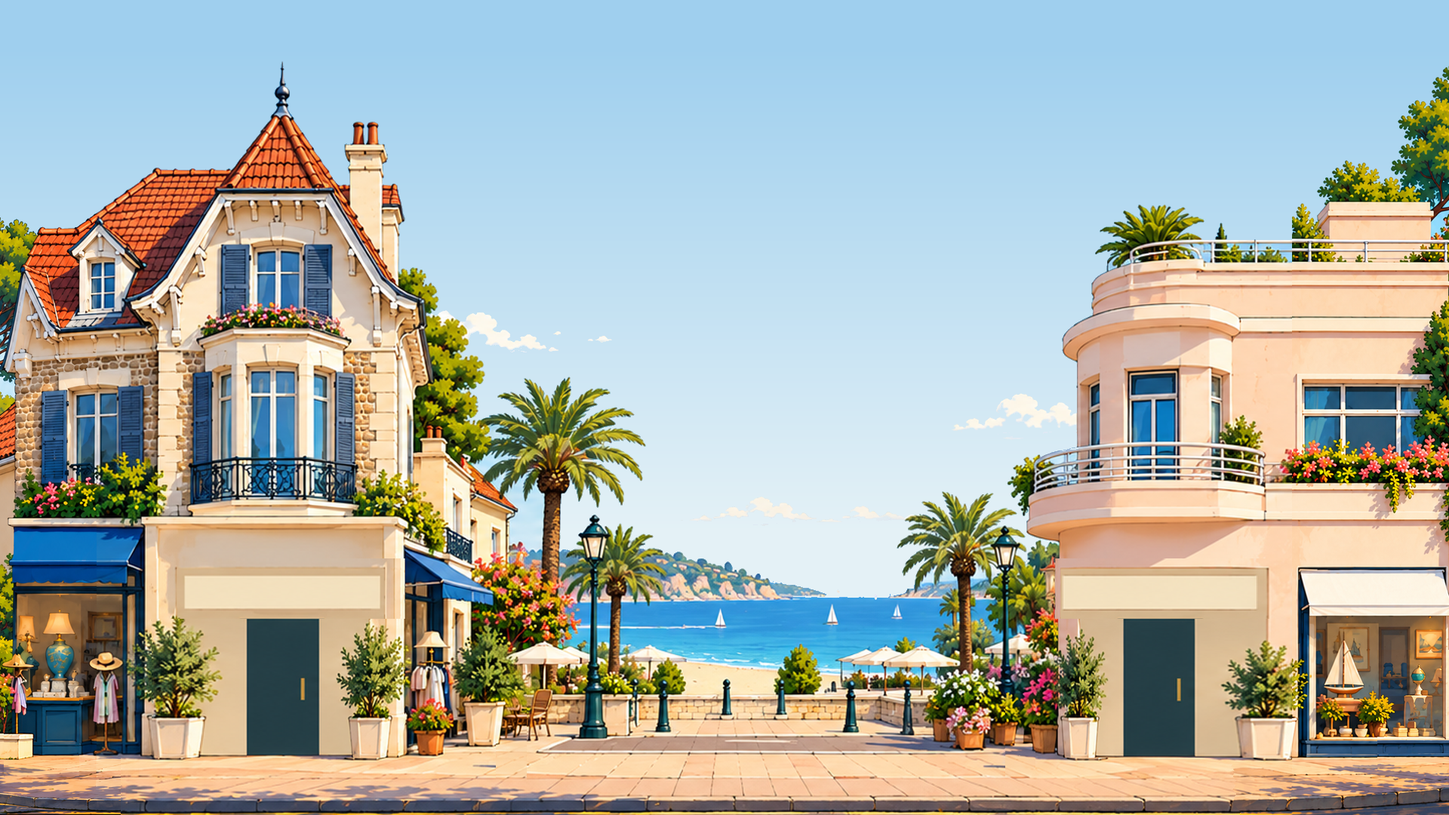
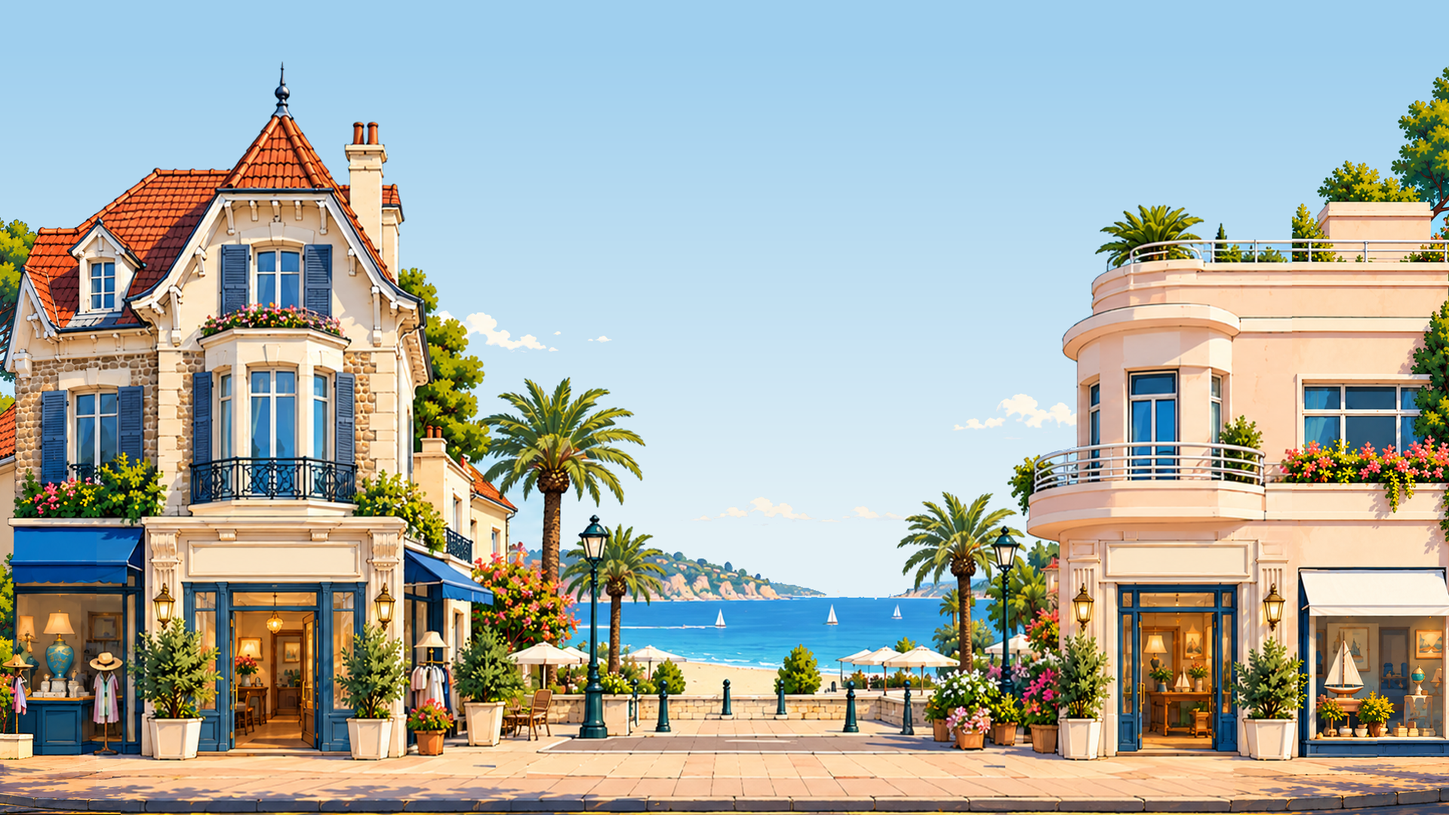
Améliore l’écran de chargement et les façades de Retraités B

Changed region(s): [[0.0938, 0.6417, 0.2812, 0.9472], [0.7188, 0.6417, 0.9062, 0.9472]]

diff --git a/src/presentation/menus/game-menu.css b/src/presentation/menus/game-menu.css
@@ -61,28 +61,47 @@
 #start-menu[data-screen='candidates'] .menu-footer { position: absolute; right: 3%; bottom: 3%; margin: 0; }
 #start-menu #prepare-game { font-size: clamp(20px, 4cqw, 66px); padding: .9cqw 2.4cqw; border-radius: 2.4cqw; outline-color: #d6ffad; background: linear-gradient(#8aff1d, #31d00a 40%, #08971a 60%, #38e30a); box-shadow: inset 0 3px 0 #fff, inset 0 -6px 0 #077b27, 0 5px 0 #06160d, 0 0 20px #78ff3270; }
 
-/* A real asset progress bar and a short visual introduction. */
-#start-menu[data-screen='loading'] .menu-shell { max-width: 1120px; }
-#start-menu[data-screen='loading'] h1 { font-size: clamp(20px, 3.5cqh, 34px); line-height: 1.15; margin: clamp(8px, 2.5cqh, 28px) 0 clamp(4px, 1.5cqh, 16px); text-align: center; }
-.loading-scene { flex: 1; min-height: 0; display: grid; grid-template-columns: .75fr 1.4fr; gap: 4%; }
-.loading-candidate { position: relative; display: flex; flex-direction: column; align-items: center; justify-content: flex-end; min-height: 0; padding: 10px; background: radial-gradient(ellipse at 50% 75%, #268ffc55, transparent 68%); }
-.loading-candidate::after { content: ''; position: absolute; bottom: 12px; height: clamp(24px, 9%, 60px); width: 78%; border: 3px solid #a5e5ff; border-radius: 50%; box-shadow: 0 0 20px #00c8ff, inset 0 0 20px #0084ff; z-index: -1; }
-.loading-candidate img { width: 100%; height: 85%; min-height: 0; margin-bottom: clamp(10px, 4.5%, 28px); object-fit: contain; object-position: 50% 100%; filter: drop-shadow(0 0 10px #79bbff55); }
-.loading-guide { display: flex; flex-direction: column; justify-content: center; gap: clamp(8px, 2cqh, 24px); }
-.loading-guide h2 { margin: 0; font: 900 clamp(22px, 4.3cqh, 40px)/1.1 Impact, 'Arial Black', sans-serif; text-transform: uppercase; color: #ffe980; }
-.loading-tips { display: grid; gap: clamp(8px, 2cqh, 22px); }
-.loading-tips p { display: grid; grid-template-columns: 46px 1fr; column-gap: 12px; align-items: center; }
-.loading-tips p > span { grid-row: 1 / 3; display: grid; place-items: center; width: 44px; height: 44px; font-size: 26px; background: #153c66; border: 2px solid #70c4ff; border-radius: 12px; color: #ffe779; }
-.loading-tips strong { font-size: clamp(15px, 2.8cqh, 24px); }
-.loading-tips small { color: #c5d9ef; font-size: clamp(11px, 1.8cqh, 16px); }
-.loading-caption { display: flex; justify-content: space-between; align-items: center; font-size: 13px; color: #9eeaff; }
+/* Écran de chargement : bandeau, candidat, trois consignes, puis la barre qui devient « Jouer ».
+   Fond en dégradé CSS : aucune image en plus à charger. */
+#start-menu[data-screen='loading'] { background: radial-gradient(circle at 28% 60%, #2b5bd0 0, #0f2559 42%, #060f27 78%); }
+#start-menu[data-screen='loading'] .menu-shell { max-width: 1120px; gap: clamp(6px, 1.8cqh, 18px); }
+.loading-title { text-align: center; }
+.loading-flash { display: inline-flex; margin: 0 0 clamp(4px, 1cqh, 10px); font: 900 clamp(12px, 2.2cqh, 19px)/1 Impact, 'Arial Black', sans-serif; text-transform: uppercase; letter-spacing: .06em; }
+.loading-flash span { padding: .3em .8em; background: #e63946; color: #fff; border-radius: 6px 0 0 6px; }
+.loading-flash span + span { background: #fff; color: #0b1d44; border-radius: 0 6px 6px 0; }
+#start-menu[data-screen='loading'] h1 { font-size: clamp(24px, 6.2cqh, 54px); line-height: 1.05; color: #ffd84a; }
+.loading-scene { flex: 1; min-height: 0; display: grid; grid-template-columns: .8fr 1.2fr; gap: 4%; align-items: center; }
+.loading-candidate { position: relative; height: 100%; min-height: 0; display: flex; flex-direction: column; align-items: center; justify-content: flex-end; background: radial-gradient(ellipse at 50% 70%, #6fb6ff40, transparent 65%); }
+.loading-candidate img { flex: 1; width: 100%; min-height: 0; object-fit: contain; object-position: 50% 100%; filter: drop-shadow(0 0 12px #79bbff55); }
+.loading-candidate img + strong { position: relative; margin-top: clamp(-18px, -2cqh, -6px); padding: .15em .8em; background: #fff; color: #0b1d44; border-bottom: 5px solid #2b5bd0; border-radius: 8px; font: 900 clamp(18px, 4cqh, 34px)/1.1 Impact, 'Arial Black', sans-serif; text-transform: uppercase; letter-spacing: .06em; box-shadow: 0 4px 0 #020714; }
+.loading-candidate small { margin-top: 6px; color: #cfdcff; font-size: clamp(12px, 1.9cqh, 16px); }
+.loading-guide { display: flex; flex-direction: column; justify-content: center; gap: clamp(6px, 1.6cqh, 16px); min-height: 0; }
+.loading-guide h2 { margin: 0; font: 900 clamp(18px, 3.6cqh, 32px)/1.1 Impact, 'Arial Black', sans-serif; text-transform: uppercase; letter-spacing: .04em; color: #fff; }
+.loading-tips { display: grid; gap: clamp(6px, 1.6cqh, 14px); }
+.loading-tips p { display: grid; grid-template-columns: auto 1fr; column-gap: clamp(10px, 1.6cqw, 18px); align-items: center; margin: 0; padding: clamp(8px, 1.6cqh, 14px) clamp(10px, 1.6cqw, 18px); background: #132a5ee6; border: 2px solid #3c67b8; border-radius: 14px; box-shadow: inset 0 1px 0 #ffffff30; }
+.loading-tips p > span { grid-row: 1 / 3; display: grid; place-items: center; width: clamp(34px, 7cqh, 58px); aspect-ratio: 1; font-size: clamp(20px, 4cqh, 32px); background: #f5c542; color: #0b1d44; border-radius: 12px; box-shadow: inset 0 -3px 0 #b8860b; }
+.loading-tips strong { font: 900 clamp(17px, 3.6cqh, 30px)/1.1 Impact, 'Arial Black', sans-serif; text-transform: uppercase; letter-spacing: .04em; color: #ffd84a; }
+.loading-tips small { color: #e3ecff; font-size: clamp(13px, 2.5cqh, 20px); line-height: 1.35; }
+.loading-tips kbd { display: inline-block; min-width: 1.7em; padding: 0 .35em; border: 2px solid #9fc3ff; border-bottom-width: 4px; border-radius: 6px; background: #16306a; font: 700 .9em/1.4 system-ui, sans-serif; text-align: center; color: #fff; }
+.loading-strip { width: min(620px, 100%); margin: 0 auto; display: grid; justify-items: center; gap: clamp(4px, .9cqh, 8px); text-align: center; }
+#loading-status { margin: 0; color: #cfdcff; font-size: clamp(13px, 2.2cqh, 18px); }
+.loading-bar { position: relative; width: 100%; height: clamp(24px, 5cqh, 40px); border: 3px solid #fff; border-radius: 99px; background: #0a1430; overflow: hidden; box-shadow: 0 4px 0 #020714; }
+.loading-fill { position: absolute; inset: 0; background: linear-gradient(90deg, #2b5bd0 0 33.3%, #f4f4f4 33.3% 66.6%, #e63946 66.6%); clip-path: inset(0 calc(100% - var(--progress, 0%)) 0 0); transition: clip-path .35s ease-out; }
+#loading-percent { position: absolute; inset: 0; display: grid; place-items: center; font: 900 clamp(14px, 2.8cqh, 22px)/1 Impact, 'Arial Black', sans-serif; color: #fff; text-shadow: 2px 2px 0 #050e27, -1px -1px 0 #050e27, 1px -1px 0 #050e27, -1px 1px 0 #050e27; }
+.loading-hint { margin: 0; min-height: 2.7em; color: #a9c0ee; font-size: clamp(12px, 2cqh, 16px); line-height: 1.35; }
+.loading-hint strong { color: #ffd84a; }
+/* Pendant le chargement, le bouton reste caché (mais présent et désactivé) ; à 100 %, il prend la place de la barre. */
+.loading-strip:not(.is-ready) #start-campaign:disabled { display: none; }
+.loading-strip.is-ready .loading-bar { display: none; }
+#start-menu .loading-strip #start-campaign { width: 100%; height: clamp(44px, 7.5cqh, 64px); padding: 0 24px; font-size: clamp(20px, 4.2cqh, 34px); letter-spacing: .08em; }
+.loading-strip.is-ready #start-campaign:not(:disabled) { animation: loading-ready 1.4s ease-in-out infinite; }
+@keyframes loading-ready { 50% { transform: scale(1.04); } }
+/* Barre du chargement du débat. */
 .menu-loading { height: 18px; border: 2px solid #abdfff; border-radius: 12px; overflow: hidden; appearance: none; background: #071327; }
 .menu-loading::-webkit-progress-bar { background: #071327; }
 .menu-loading::-webkit-progress-value { background: linear-gradient(#aeffff, #1ec9ff 50%, #0089ff); border-radius: 8px; transition: width .15s; }
 .menu-loading::-moz-progress-bar { background: linear-gradient(#aeffff, #1ec9ff 50%, #0089ff); border-radius: 8px; }
-#start-menu[data-screen='loading'] .menu-footer { margin-top: 0; }
 #start-menu #start-campaign { font-size: clamp(18px, 3cqh, 30px); padding: 12px 32px; border-radius: 16px; outline: none; }
-#start-menu[data-screen='loading'] #start-campaign { margin-left: auto; }
 #start-menu #start-campaign:focus-visible, #start-menu #prepare-game:focus-visible { outline: 3px solid white; outline-offset: 4px; }
 #start-menu #start-campaign:disabled { background: #263a52; border-color: #7593ad; box-shadow: inset 0 2px 0 #93b3ce; opacity: .8; }
 #results { background: linear-gradient(#061329ed, #061329f5), var(--menu-candidates-art) center / cover; }
@@ -103,23 +122,28 @@
   #start-menu .menu-header button { min-height: 40px; }
   #start-menu #menu-back { padding: 6px 12px; }
   #start-menu #menu-fullscreen { width: 42px; font-size: 25px; }
-  #start-menu[data-screen='loading'] h1 { font-size: 24px; }
-  .loading-guide { gap: 6px; }
-  .loading-guide h2 { font-size: 21px; }
-  .loading-tips { gap: 6px; }
-  .loading-tips p { grid-template-columns: 32px 1fr; column-gap: 8px; }
-  .loading-tips p > span { width: 30px; height: 30px; font-size: 20px; border-radius: 8px; }
-  .loading-tips strong { font-size: 14px; }
-  .loading-tips small { font-size: 11px; }
+  #start-menu[data-screen='loading'] h1 { font-size: 22px; }
+  .loading-flash { font-size: 11px; margin-bottom: 2px; }
+  .loading-guide, .loading-tips { gap: 6px; }
+  .loading-guide h2 { font-size: 17px; }
+  .loading-tips p { padding: 6px 10px; border-radius: 10px; }
+  .loading-tips p > span { width: 30px; font-size: 18px; border-radius: 8px; }
+  .loading-tips strong { font-size: 16px; }
+  .loading-tips small { font-size: 12px; }
+  .loading-candidate img + strong { font-size: 17px; border-bottom-width: 3px; }
+  .loading-candidate small { display: none; }
+  #loading-status, .loading-hint { font-size: 11px; }
+  .loading-bar { height: 22px; border-width: 2px; }
+  #loading-percent { font-size: 13px; }
   #start-menu #start-campaign { min-height: 44px; padding: 8px 24px; font-size: 20px; }
   .menu-loading { height: 12px; }
+  #start-menu .loading-strip #start-campaign { height: 42px; font-size: 20px; }
 }
-@media (prefers-reduced-motion: reduce) { .menu-loading::-webkit-progress-value { transition: none; } }
+@media (prefers-reduced-motion: reduce) { .menu-loading::-webkit-progress-value, .loading-fill { transition: none; } .loading-strip.is-ready #start-campaign:not(:disabled) { animation: none; } }
 @media (max-height: 350px) {
-  .loading-guide h2 { display: none; }
+  .loading-guide h2, .loading-hint { display: none; }
   .loading-guide, .loading-tips { gap: 4px; }
-  .loading-tips p > span { width: 26px; height: 26px; font-size: 18px; }
-  .loading-tips strong { font-size: 13px; }
-  .loading-candidate { padding: 2px; }
-  .loading-candidate img { height: 0; flex: 1; }
+  .loading-tips p > span { width: 26px; font-size: 16px; }
+  .loading-tips strong { font-size: 14px; }
+  .loading-flash { display: none; }
 }

diff --git a/src/presentation/menus/arcade-content.js b/src/presentation/menus/arcade-content.js
@@ -17,6 +17,40 @@ export function playersContent(mode) {
 export function candidatesContent(selected = null) {
   return `<div class="candidate-grid">${CANDIDATES.map(c => `<button class="candidate-card" data-candidate="${c.id}" aria-label="${c.name}" aria-pressed="${c.id === selected}"><span class="candidate-badge" aria-hidden="true">♛ J1</span><strong class="visually-hidden">${c.short}</strong></button>`).join('')}</div><footer class="menu-footer"><button id="prepare-game" class="menu-primary arcade-button" ${selected ? '' : 'disabled'}>Valider <span aria-hidden="true">➜</span></button></footer>`;
 }
-export function tutorialContent(candidate, combat) {
-  return `<div class="loading-scene"><div class="loading-candidate"><img src="${portrait(candidate)}" alt="${candidate.name}"></div><div class="loading-guide"><h2>À vous de jouer !</h2><div class="loading-tips"><p><span aria-hidden="true">✦</span><strong>Convainquez</strong><small>Placez-vous près d’un passant pour lui parler.</small></p><p><span aria-hidden="true">⚑</span><strong>Étendez-vous</strong><small>Restez devant un bâtiment pour l’acquérir.</small></p><p><span aria-hidden="true">⚔</span><strong>Combattez</strong><small class="keyboard-guide">← → Marcher · ↑ Sauter · Espace Frapper · R Ultime</small><small class="touch-guide">Utilisez les boutons à l’écran.</small></p></div></div></div><div class="loading-strip"><div class="loading-caption"><p id="loading-status" role="status">Chargement…</p><span id="loading-percent" aria-hidden="true">0 %</span></div><progress class="menu-loading" max="1" value="0" aria-label="Chargement de la campagne"></progress></div><footer class="menu-footer"><button id="start-campaign" class="menu-primary arcade-button" disabled>Chargement…</button></footer>`;
+/** Astuces de l’écran de chargement : l’atout du candidat d’abord, puis des conseils de jeu. */
+const CANDIDATE_HINTS = {
+  melenchon: 'Votre atout : vous convainquez les passants plus vite que vos rivaux.',
+  philippe: 'Votre atout : vous démarrez la campagne avec plus d’argent que vos rivaux.',
+  le_pen: 'Votre atout : vos coups font 50 % de dégâts en plus aux sympathisants adverses.',
+};
+const GAME_HINTS = [
+  'Pour convaincre un passant, arrêtez-vous à côté de lui : on ne convainc personne en marchant.',
+  'Votre première permanence devient votre QG. Repassez-y souvent : les dons de vos soutiens vous y attendent.',
+  'Restez devant votre QG pour faire imprimer des tracts.',
+  'Votre style de campagne compte : on vous écoute quatre fois plus vite dans son quartier, deux fois moins vite dans le quartier opposé.',
+  'Dans un quartier que vous tenez, vos partisans résistent mieux et vos rivaux mettent plus de temps à convaincre.',
+  'Un bâtiment acquis reste à vous, même vide. Seul un raid ou une fermeture peut vous le reprendre.',
+  'Dès qu’ils sont trois, vos militants partent ensemble à la conquête de nouveaux électeurs.',
+  'Achetez un garage : à vélo ou à scooter, vous traversez la France bien plus vite.',
+  'Pour esquiver, appuyez deux fois rapidement sur une direction. Vous avez trois esquives, qui se rechargent.',
+  'Gardez la frappe enfoncée une seconde pour un coup chargé : vous êtes protégé pendant sa préparation.',
+  'Sautez pour éviter les coups bas, puis frappez en l’air pour retomber sur votre adversaire.',
+  'Un candidat mis K.-O. perd 30 % de son argent : ramassez vite les billets tombés !',
+  'Chaque coup qui touche remplit votre jauge d’ultime. Quand elle devient dorée, déclenchez-la !',
+  'En tête des sondages, des journalistes vous suivent. Sortez du champ de la caméra : elle vous ralentit.',
+];
+export const loadingHints = candidate => [CANDIDATE_HINTS[candidate.id], ...GAME_HINTS].filter(Boolean);
+export function tutorialContent(candidate) {
+  const card = (icon, title, text) => `<p><span aria-hidden="true">${icon}</span><strong>${title}</strong>${text}</p>`;
+  return `<div class="loading-title"><p class="loading-flash"><span>J-365</span><span>Premier tour</span></p><h1 tabindex="-1">Plus qu’un an avant l’élection</h1></div>`
+    + `<div class="loading-scene"><div class="loading-candidate"><img src="${portrait(candidate)}" alt=""><strong class="loading-name">${candidate.short}</strong><small>Votre candidat</small></div>`
+    + `<div class="loading-guide"><h2>À vous de jouer !</h2><div class="loading-tips">`
+    + card('✦', 'Convainquez', '<small>Arrêtez-vous près d’un passant pour lui parler.</small>')
+    + card('⚑', 'Étendez-vous', '<small>Restez devant un bâtiment pour l’acquérir.</small>')
+    + card('⚔', 'Combattez', '<small class="keyboard-guide"><kbd>←</kbd><kbd>→</kbd> marcher · <kbd>↑</kbd> sauter · <kbd>Espace</kbd> frapper · <kbd>R</kbd> ultime</small><small class="touch-guide">Utilisez les boutons à l’écran.</small>')
+    + `</div></div></div>`
+    + `<div class="loading-strip"><p id="loading-status" role="status">Chargement…</p>`
+    + `<div class="loading-bar" role="progressbar" aria-label="Chargement de la campagne" aria-valuemin="0" aria-valuemax="100" aria-valuenow="0"><span class="loading-fill"></span><span id="loading-percent" aria-hidden="true">0 %</span></div>`
+    + `<button id="start-campaign" class="menu-primary arcade-button" disabled>Chargement…</button>`
+    + `<p class="loading-hint"><strong>Astuce :</strong> <span id="loading-tip"></span></p></div>`;
 }

diff --git a/src/presentation/menus/start-menu.js b/src/presentation/menus/start-menu.js
@@ -1,4 +1,4 @@
-import { CANDIDATES, homeContent, playersContent, candidatesContent, tutorialContent } from './arcade-content.js';
+import { CANDIDATES, homeContent, playersContent, candidatesContent, tutorialContent, loadingHints } from './arcade-content.js';
 import { enterLandscape, syncOrientation, toggleFullscreen } from '../interface/landscape.js';
 import { profileButton, profileContent, cleanNickname, collectionCardContent } from './player-profile.js';
 import { hydrateMedallions, playerCard, rememberTitle } from './player-card.js';
@@ -195,23 +195,35 @@ export class StartMenu {
   }
   async loading({ multiplayer = false, ready = null } = {}) {
     const candidate = CANDIDATES.find(c => c.id === this.selected);
-    this.page('loading', "Plus qu'un an avant le premier tour de l'élection présidentielle", tutorialContent(candidate, this.combat), () => multiplayer ? this.home() : this.candidates());
-    if (multiplayer) {
-      const eyebrow = this.element.querySelector('.eyebrow'); if (eyebrow) eyebrow.textContent = `MULTIJOUEUR · ${candidate.short}`;
-    }
+    this.page('loading', '', tutorialContent(candidate), () => multiplayer ? this.home() : this.candidates());
+    if (multiplayer) this.element.querySelector('.loading-flash span:last-child').textContent = 'Multijoueur';
     const generation = this.generation;
+    // Une astuce au hasard, puis la suivante toutes les 7 secondes tant que l’écran reste affiché.
+    const hints = loadingHints(candidate), tip = this.element.querySelector('#loading-tip');
+    let hint = Math.floor(Math.random() * hints.length);
+    tip.textContent = hints[hint];
+    const rotation = setInterval(() => { hint = (hint + 1) % hints.length; tip.textContent = hints[hint]; }, 7000);
+    this.cleanup = () => clearInterval(rotation);
+    const strip = this.element.querySelector('.loading-strip'), bar = strip.querySelector('.loading-bar');
+    const show = ratio => {
+      const percent = Math.round(ratio * 100);
+      bar.style.setProperty('--progress', `${percent}%`); bar.setAttribute('aria-valuenow', String(percent));
+      strip.querySelector('#loading-percent').textContent = `${percent} %`;
+    };
+    const phases = { images: 'Les militants collent les affiches…', gpu: 'Installation de l’estrade…' };
     try {
       // Let the loading screen paint before constructing the world.
       await new Promise(resolve => requestAnimationFrame(() => requestAnimationFrame(resolve)));
       if (generation !== this.generation) return;
-      await this.prepare(`candidate:${this.selected}`, ratio => {
+      await this.prepare(`candidate:${this.selected}`, (ratio, phase) => {
         if (generation !== this.generation) return;
-        this.element.querySelector('progress').value = ratio;
-        this.element.querySelector('#loading-percent').textContent = `${Math.round(ratio * 100)} %`;
+        show(ratio);
+        if (phases[phase]) strip.querySelector('#loading-status').textContent = phases[phase];
       });
       if (generation !== this.generation) return;
-      const progress = this.element.querySelector('progress'); progress.max = 1; progress.value = 1;
-      this.element.querySelector('#loading-percent').textContent = '100 %';
+      show(1);
+      // À 100 %, la barre laisse sa place au bouton « Jouer ».
+      strip.classList.add('is-ready');
       this.element.querySelector('#loading-status').textContent = 'Prêt !';
       const button = this.element.querySelector('#start-campaign'); button.disabled = false; button.textContent = 'Jouer ➜';
       button.onclick = async () => {

diff --git a/test/carte-plate.test.js b/test/carte-plate.test.js
@@ -11,12 +11,13 @@ test('Les textes des devantures restaurées restent dans leurs panneaux peints, 
   const tiles = new Map([
     ['paris_b', readPng(new URL('../assets/images/carte/tuile-02-paris-b.png', import.meta.url))],
     ['banlieue_b', readPng(new URL('../assets/images/carte/tuile-05-banlieue-b.png', import.meta.url))],
+    ['retraites_b', readPng(new URL('../assets/images/carte/tuile-14-retraites-b.png', import.meta.url))],
     ['retraites_c', readPng(new URL('../assets/images/carte/tuile-15-retraites-c.png', import.meta.url))],
     ['riches_a', readPng(new URL('../assets/images/carte/tuile-16-riches-a.png', import.meta.url))],
     ['riches_b', readPng(new URL('../assets/images/carte/tuile-17-riches-b.png', import.meta.url))],
     ['riches_c', readPng(new URL('../assets/images/carte/tuile-18-riches-c.png', import.meta.url))],
   ]);
-  for (const id of ['site:paris_b', 'site:banlieue_b', 'site:retraites_c', 'site:riches_a', 'site:riches_b', 'site:riches_c', 'site:riches_c:institut_sondage']) {
+  for (const id of ['site:paris_b', 'site:banlieue_b', 'site:retraites_b', 'site:retraites_b:institut_sondage', 'site:retraites_c', 'site:riches_a', 'site:riches_b', 'site:riches_c', 'site:riches_c:institut_sondage']) {
     const building = state.buildings.find(b => b.site_id === id);
     const zone = state.world.subzones.find(z => z.id === building.subzone_id);
     const image = tiles.get(zone.id), position = building.x;

diff --git a/src/main.js b/src/main.js
@@ -420,7 +420,8 @@ async function start() {
         }),
         renderer.assets.loadRequired(ids, ratio => {
           if (finished) return;
-          restartTimeout(); onProgress(ratio * .95);
+          // Les images déjà en mémoire arrivent d’un coup : cette étape n’occupe que 60 % de la barre.
+          restartTimeout(); onProgress(ratio * .6, 'images');
         }),
       ]);
       // Prepare the first complete frame behind the loading screen. In
@@ -429,10 +430,13 @@ async function start() {
       // sinon ce transfert se fait au premier affichage, en pleine partie (à-coups).
       const ready = [...new Set([...renderer.assets.cache.values()].filter(entry => entry.ready)
         .flatMap(entry => [...preparedDrawingSources(entry.image)]))];
+      // Cette étape est souvent la plus longue : elle fait avancer la barre de 60 à 98 %.
+      onProgress(.6, 'gpu');
       for (let i = 0; i < ready.length; i += 6) {
         renderer.ctx.save(); renderer.ctx.setTransform(1, 0, 0, 1, 0, 0);
         for (const image of ready.slice(i, i + 6)) renderer.ctx.drawImage(image, 0, 0, 1, 1);
         renderer.ctx.restore();
+        onProgress(.6 + .38 * Math.min(1, (i + 6) / ready.length), 'gpu');
         await new Promise(resolve => requestAnimationFrame(resolve));
       }
       renderer.draw(introScene.view(state), state, 1, 0);

diff --git a/test/campaign-intro.test.js b/test/campaign-intro.test.js
@@ -98,6 +98,23 @@ test('l’ordinateur redescend de l’estrade et part faire campagne comme sans 
   }
 });
 
+test('sauter depuis l’estrade part de sa hauteur, sans repasser par le sol', () => {
+  const { sim, human, run, me, config } = setup();
+  run(20); human.attack();
+  for (let i = 0; i < 60 && sim.state.campaign_intro; i++) run(1);
+  const podium = config.balance.buildings.meeting.podium_height;
+  for (const axis of [0, 1]) {
+    human.setAxis(axis); human.jump(); run(1);
+    const heights = [me().combat.height];
+    for (let i = 0; i < 45; i++) { run(1); heights.push(me().combat.height); }
+    assert.ok(heights[0] > podium, `départ au-dessus de l’estrade (${heights[0]})`);
+    for (let i = 1; i < heights.length; i++) assert.ok(Math.abs(heights[i] - heights[i - 1]) < 0.3, `saut de hauteur ${heights[i - 1]} → ${heights[i]}`);
+    if (axis === 0) assert.equal(me().combat.height, podium, 'sur place : retour sur l’estrade');
+    else assert.equal(me().combat.height, 0, 'de côté : descente jusqu’au sol');
+  }
+  human.setAxis(0);
+});
+
 test('multijoueur : la campagne attend tous les joueurs, au plus 5 s après le premier coup', () => {
   const { sim, human, run, config } = setup('candidate:melenchon');
   sim.state.human_candidate_ids = ['candidate:melenchon', 'candidate:philippe'];

diff --git a/src/simulation/combat.js b/src/simulation/combat.js
@@ -53,7 +53,9 @@ export function attackInput(sim, actor, type) {
   // Le saut interrompt un coup, sauf la réception d’un plongeon (sinon, plongeons à l’infini).
   const diveRecovery = sim.state.attacks.some(a => a.id === c.attack_id && a.kind === 'DIVE');
   if (type === 'Jump' && !airborne(actor) && !diveRecovery && Math.abs(c.knockback_velocity) <= 0.02) {
-    cancelCurrentAttack(sim, actor); c.jump_tick = sim.state.tick; c.jump_delay_ticks = 0; c.height = 0; c.jump_base = 0;
+    // Depuis l'estrade d'un meeting, le saut part de sa hauteur : pas de retour éclair au sol.
+    const base = actor.podium_site_id ? c.height : 0;
+    cancelCurrentAttack(sim, actor); c.jump_tick = sim.state.tick; c.jump_delay_ticks = 0; c.height = base; c.jump_base = base;
     // Sur un pupitre du mode Débat, le saut part de la hauteur du pupitre.
     if (sim.state.platforms?.length) { c.jump_base = actor.platform_id ? sim.state.platforms.find(p => p.id === actor.platform_id).height : 0; c.height = c.jump_base; c.drop_through_id = null; actor.platform_id = null; }
     actor.podium_site_id = null;

diff --git a/src/simulation/combat-actions.js b/src/simulation/combat-actions.js
@@ -31,7 +31,8 @@ export function updateActions(sim, actor) {
     const t = (sim.state.tick - c.jump_tick - c.jump_delay_ticks) / sim.secondsToTicks(b.jump_duration_seconds);
     c.height = (c.jump_base || 0) + b.jump_height_ratio * 4 * t * (1 - t);
     if (t >= 0.5 && podiumLanding(sim, actor, previousHeight, c.height)) return;
-    if (t >= 1 || t >= 0.5 && c.height <= 0) { c.jump_tick = null; c.height = 0; c.jump_base = 0; }
+    // Parti de l'estrade, on continue de descendre sous la hauteur de départ jusqu'au sol.
+    if (t >= 0.5 && c.height <= 0) { c.jump_tick = null; c.height = 0; c.jump_base = 0; }
   }
 }
 /** Campagne : en quittant le promontoire à pied, on tombe jusqu’au sol.

diff --git a/src/presentation/rendu/renderer.js b/src/presentation/rendu/renderer.js
@@ -228,6 +228,9 @@ export class WorldRenderer {
       else if (entering.has(entity.id)) arrivals.push(entity);
       else street.push(entity);
     }
+    // Les rangs 2 et 3 d'une foule (meeting, rassemblement) sont plus bas, donc plus proches :
+    // ils passent devant les candidats, qui marchent sur la ligne du rang 1 (tri stable).
+    street.sort((a, b) => (rows.get(a) || 1) - (rows.get(b) || 1));
     drawEntities(stage);
     drawMeetingForeground(this, state);
     // Ceux qui arrivent passent devant : ils viennent du premier plan.

diff --git a/src/presentation/carte/building-shutters.js b/src/presentation/carte/building-shutters.js
@@ -28,7 +28,7 @@ export const BUILDING_OPENINGS = {
   'site:campagne_b': { x: 375, y: 822, w: 94, h: 182 },
   'site:campagne_c': { x: 642, y: 822, w: 94, h: 182 },
   'site:retraites_a': { x: 1208, y: 824, w: 94, h: 180 },
-  'site:retraites_b': { x: 328, y: 822, w: 94, h: 182 },
+  'site:retraites_b': { x: 304, y: 810, w: 120, h: 187 },
   'site:retraites_c': { x: 1238, y: 820, w: 84, h: 184 },
   'site:riches_a': { x: 970, y: 840, w: 86, h: 92 },
   'site:riches_b': { x: 146, y: 694, w: 348, h: 305,

diff --git a/src/presentation/carte/carte-plate.js b/src/presentation/carte/carte-plate.js
@@ -15,6 +15,8 @@ const SIGN = { top: 764, bottom: 808, width: 220 };
 const NATURAL_SIGNS = {
   'site:paris_b': { x: 450, y: 710, w: 306, h: 39 },
   'site:banlieue_b': { x: 284, y: 715, w: 267, h: 32 },
+  'site:retraites_b': { x: 255, y: 728, w: 211, h: 33 },
+  'site:retraites_b:institut_sondage': { x: 1470, y: 728, w: 177, h: 32 },
   'site:retraites_c': { x: 1195, y: 758, w: 188, h: 30 },
   'site:riches_a': { x: 904, y: 683, w: 222, h: 42 },
   'site:riches_b': { x: 151, y: 614, w: 355, h: 52 },

diff --git a/docs/images-et-animations.md b/docs/images-et-animations.md
@@ -65,13 +65,15 @@ Coût : anneau et classement sont reconstruits seulement à l'arrivée d'un sond
 
 ## La carte plate
 
+Retraités B : les deux entrées simplifiées sont remplacées par des devantures peintes et détaillées, avec moulures de pierre, menuiseries bleu-gris, lanternes et intérieurs chaleureux, accordées aux immeubles du bord de mer. À gauche, le média d’opinion conserve le rideau métallique commun : ouverture et fermeture sur le nouveau rectangle de porte, sans nouvelle planche ni chargement supplémentaire. À droite, l’institut de sondage reste ouvert, comme les autres instituts. Les deux enseignes suivent leurs nouveaux panneaux (`NATURAL_SIGNS`). ImageGen intégré ; consigne exacte : `retouches-carte/retraites-b-facades-consigne.txt`. Source, tuile avant retouche et script d’intégration reproductible : `retouches-carte/sources/retraites-b-facades-*`. Seuls deux rectangles de façade sont reportés ; les autres pixels, notamment les étages, la mer, le trottoir et les bords, sont conservés. Le PNG est compressé sans perte, puis profite de l’export WebP habituel. Le contrôle navigateur des rideaux produit aussi trois vues complètes `retraites-b-{ferme,mi-course,ouvert}.png`, avec les enseignes.
+
 Correction manuelle du petit toit à gauche de la tour de Retraités C : la fresque maître éditée par l’utilisateur sert de source. `retouches-carte/sources/retraites-c-toit-manuel-integrer.py` reporte uniquement les 254 pixels différents vers le jeu et les archives de production, sans réécrire la fresque maître. Sauvegarde, source et masque : `retraites-c-toit-manuel-*`.
 
 La permanence de Retraités C reçoit une reprise de la façade entière : grille abaissée et raccordée sans coupure dans les arbres, panneau et moulures contenus dans la maçonnerie, porte centrée. Le petit raccord au pied gauche est repris localement (`retraites-c-pied-*`) pour retirer la marche artificielle et continuer les pavés. La dernière pierre verticale du muret est ensuite raccourcie à la même ligne basse que le reste du mur ; la bande sous cette ligne est du sol pavé (`retraites-c-muret-sol-*`). Le pavillon est ensuite abaissé en supprimant le grand bandeau de pierre au-dessus du panneau ; toiture et cheminée sont abaissées, le décor découvert derrière est reconstitué, deux appliques et un intérieur chaleureux sont intégrés. Source et masque : `retraites-c-pavillon-*`. Le muret et le sol déjà corrigés sont conservés. Le haut de la tourelle du manoir est réaligné sur la partie basse et sa toiture conique affinée, avec les corniches moulurées conservées et le ciel original rétabli autour (`retraites-c-tour-*`). Le texte du jeu utilise le nouveau cadre `NATURAL_SIGNS`. Source ImageGen, masque opaque, sauvegarde et aperçu : `retouches-carte/sources/retraites-c-facade-*` et `retouches-carte/retraites-c-facade-*`. Seuls les pixels modifiés sont reportés aux deux fresques et aux tuiles archivées.
 
 Jonctions des trottoirs : bordures de Périurbain B et du raccord B → C, terrasse de Retraités A et raccord Retraités B → C repris localement avec ImageGen pour retirer les sauts de hauteur et les coupes rectangulaires. La dernière jonction à droite de Retraités B → C reçoit une retouche complémentaire des pierres et de l’ombre, avec une pente qui rejoint le trottoir existant. Le panneau de Retraités C est resserré dans la façade, la maçonnerie et la grille à gauche restaurées ; le texte est recalé via `NATURAL_SIGNS` sans déplacer le site. La corniche, le panneau, les traverses et le soubassement de la vitrine latérale de Riches B sont raccordés dans leur perspective. Sources et sauvegardes : `retouches-carte/sources/jonctions-*`, consignes et aperçus dans `retouches-carte/` avec les préfixes `periurbain-*-bordure`, `retraites-*-bordure`, `retraites-c-panneau` et `riches-b-vitrine`. `jonctions-integrer.py` utilise des masques opaques à bord franc et restaure les pixels extérieurs ; `jonctions-synchroniser.py` reporte uniquement les pixels modifiés aux archives et vérifie les 18 tuiles du maître contre celles du jeu. Les positions de gameplay, la marche à y = 1 004 et la sortie discrète du rond-point sont conservées.
 
-La fresque maître archivée `carte-plate/fresque-plate-maitre.png` correspond aux 18 tuiles actuellement utilisées par le jeu : comparaison complète pixel par pixel. Le raccord Campagne B → C a été reporté avec `retouches-carte/sources/campagne-bc-synchroniser-maitre.py`, puis les 31 derniers pixels différents de Banlieue B et Retraités B avec `retouches-carte/sources/fresque-aligner-derniers-pixels.py`. Ce contrôle concerne le maître ; les sources de génération intermédiaires restent des étapes de travail.
+La fresque maître archivée `carte-plate/fresque-plate-maitre.png` correspondait aux 18 tuiles avant la reprise des deux façades de Retraités B, conservée dans les sources du dépôt et à reporter dans cette archive avant de la réutiliser. Le raccord Campagne B → C a été reporté avec `retouches-carte/sources/campagne-bc-synchroniser-maitre.py`, puis les 31 derniers pixels différents de Banlieue B et Retraités B avec `retouches-carte/sources/fresque-aligner-derniers-pixels.py`. Ce contrôle concerne le maître ; les sources de génération intermédiaires restent des étapes de travail.
 
 Périurbain B : l’îlot du rond-point forme une ellipse fermée, séparée du trottoir par une chaussée qui débouche sur la rue du premier plan. Un passage piéton relie les trottoirs pour accompagner la marche horizontale ; la ligne de marche reste à y = 1 004 et les sites gardent leurs positions. Le raccord avec C reprend localement la courbe du trottoir, sans seconde bordure ni saut de hauteur. Une sortie latérale discrète part vers la droite et disparaît derrière les plantations ; le trottoir arrière et les plantes du premier plan sont conservés. Cette dernière étape utilise `periurbain-b-sortie-integrer.py`, après l’intégration principale : [consigne de la sortie](retouches-carte/periurbain-b-sortie-consigne.txt), [aperçu local](retouches-carte/periurbain-b-sortie-apercu.png). Les bâtiments, le paysage et le raccord avec A sont conservés. Retouches ImageGen puis intégration par masques opaques, sans fondu, avec restauration des pixels extérieurs : [consigne](retouches-carte/periurbain-b-rond-point-consigne.txt), [aperçu B](retouches-carte/periurbain-b-rond-point-apercu.png), [raccord B → C](retouches-carte/periurbain-bc-raccord-apercu.png). Les sources, sauvegardes et masques sont dans `retouches-carte/sources/periurbain-*` ; `periurbain-b-integrer.py` effectue l’intégration et `periurbain-b-synchroniser.py` reporte seulement les pixels modifiés dans la fresque maître et les tuiles archivées.
 
